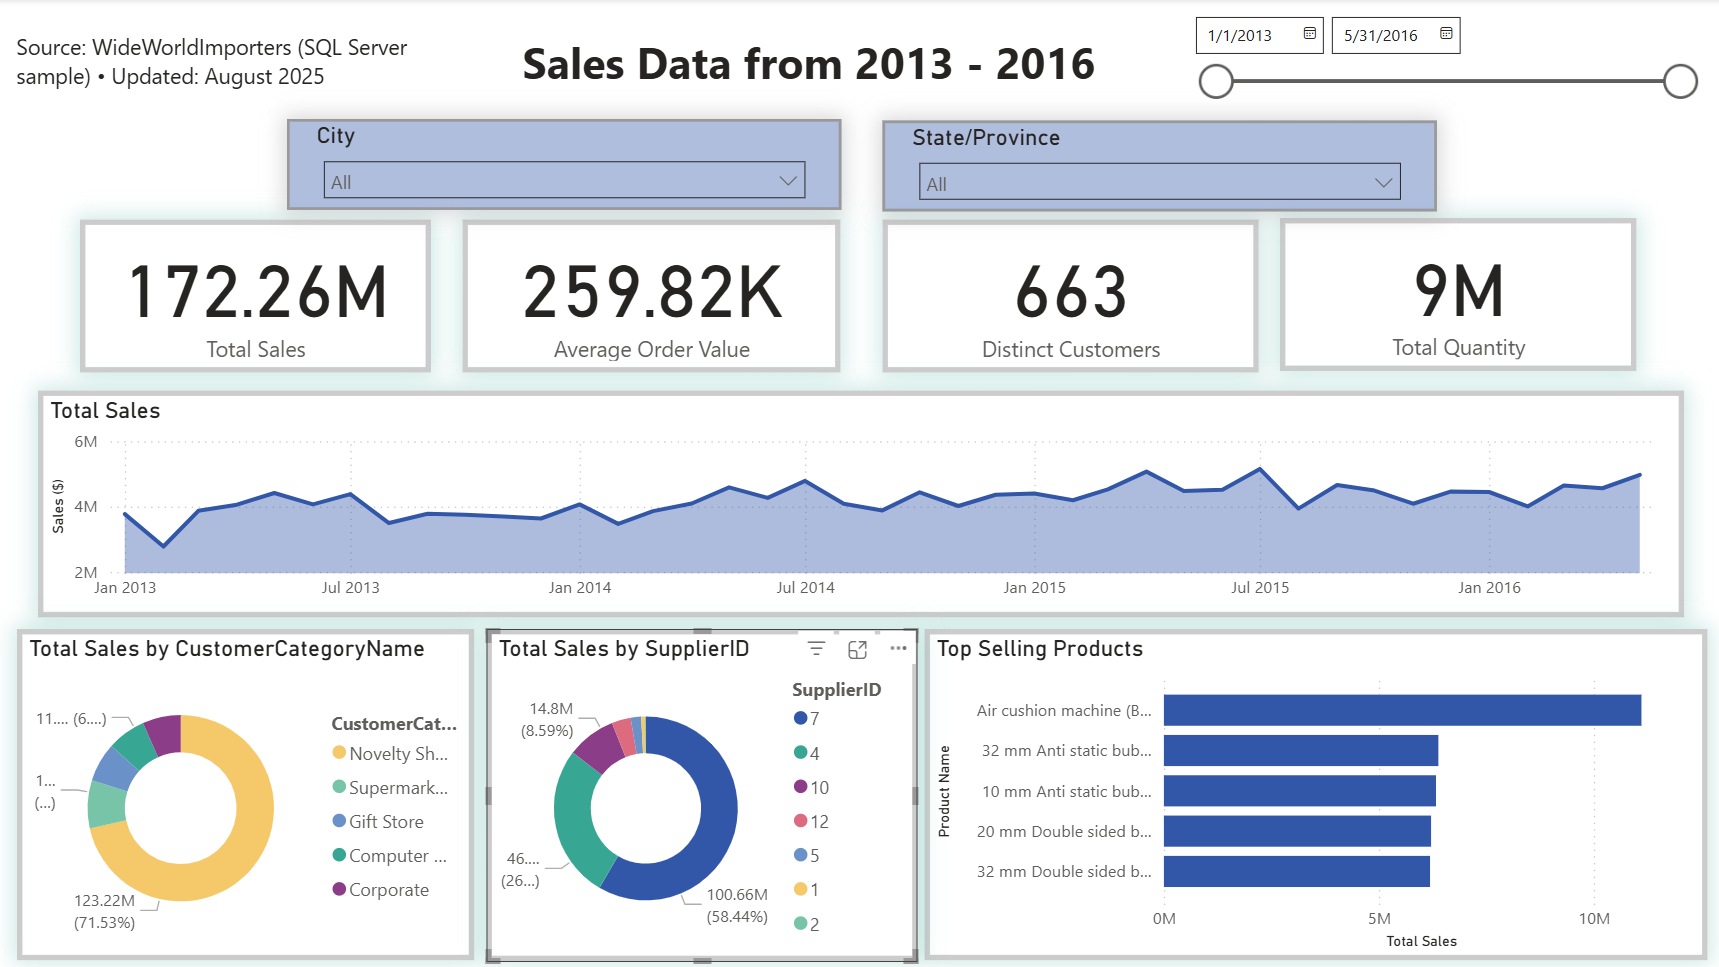
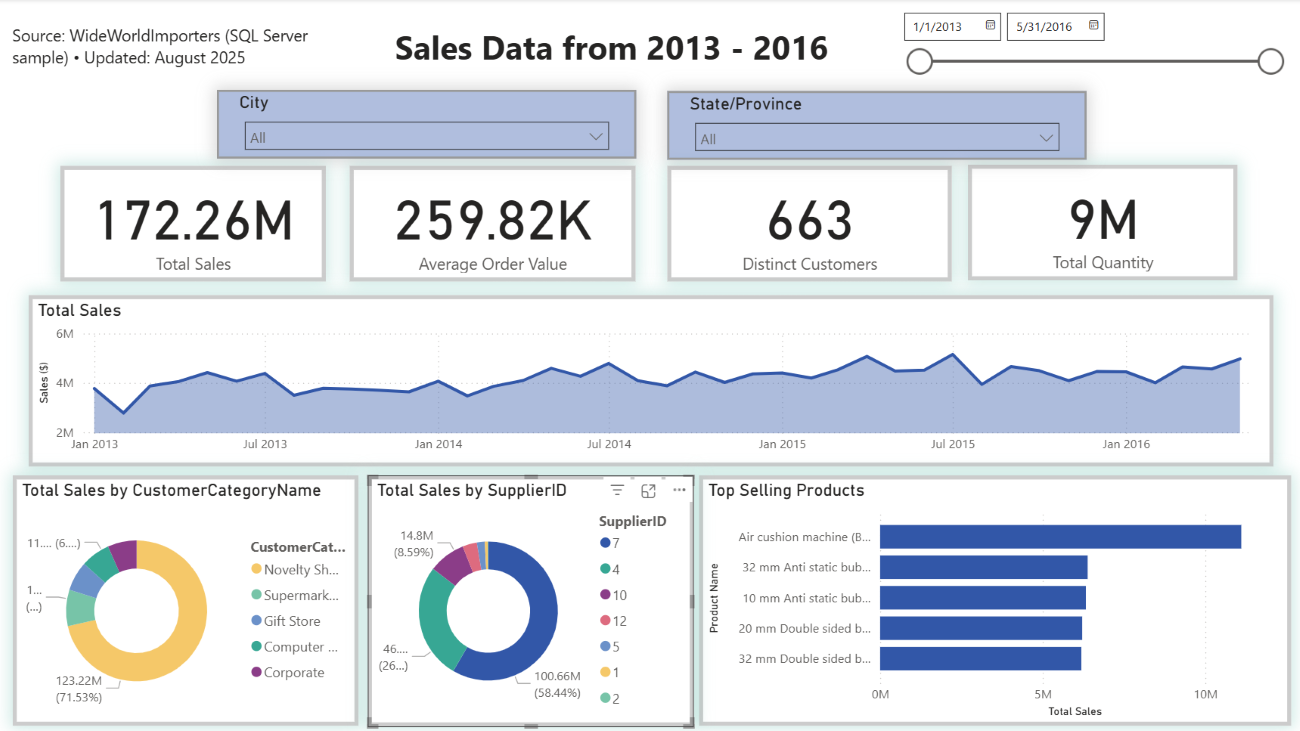
Added: narrative text to vis-reports page; Changed: resized dashboard images; pushed updated .gitignore

Changed region(s): [[0.2769, 0.9932, 0.5231, 1.0], [0.7692, 0.0301, 0.8308, 0.0602], [0.7077, 0.0301, 0.7385, 0.0602]]

diff --git a/tracks/vis-reports.html b/tracks/vis-reports.html
@@ -19,14 +19,38 @@
   <main class="container">
     
     <section class="intro">
-      <h2>Interactive Dashboard</h2>
-      <p>This report demonstrates a basic-to-iterative build: model design, DAX measures, and report layouts.</p>
+      <h2>Project Overview</h2>
+      <p>
+        My first goal was to showcase a live Power BI dashboard embedded directly in the portfolio. After multiple attempts,
+        I found that authentication requirements created a barrier for anyone without access to my Microsoft account.
+        To keep the portfolio universally accessible, I chose to provide high-resolution screenshots and downloadable
+        <code>.pbix</code> files so viewers can open, explore, and interact locally without account or system constraints.
+      </p>
+      <p>
+        Looking ahead, I plan to publish interactive dashboards with Tableau Public as a more open option for sharing live,
+        browser-based reports. This will let visitors engage with filters and comparisons online while I continue to document
+        design choices, data modeling decisions, and tradeoffs between convenience, control, and reproducibility.
+      </p>
+      <p>
+        As I iterate, I’m prioritizing explanations of “why” alongside “what”: why a donut replaced the map, why a fixed 90-day
+        window stabilizes comparisons, and why downloadable files improve access. The portfolio aims to show decisions, not just
+        outputs, so that a reviewer can follow the modeling choices, troubleshooting steps, and the rationale for publishing
+        formats that fit real-world constraints.
+      </p>
     </section>
+
 
     <!-- Project 1: Sales Trends (static) -->
     <section class="project">
       <h3>Sales Trends Dashboard</h3>
       <p class="meta">Baseline — clean visuals + core measures</p>
+
+      <p>
+        The Sales Trends dashboard began as a baseline for clean measures and visuals and became a study in practical publishing.
+        Dynamic map visuals were replaced with a donut for distribution and a Top-10 bar for focus, which simplified the layout
+        without losing the story. The current approach balances clarity and performance, and the included <code>.pbix</code> lets
+        anyone open the model to inspect relationships, DAX, and visual settings end-to-end.
+      </p>
 
       <a href="../assets/img/powerbi/sales-trends.png" target="_blank" rel="noopener">
         <img src="../assets/img/powerbi/sales-trends.png" 
@@ -54,6 +78,15 @@
     <section class="project">
       <h3>WideWorldImporters — Continued</h3>
       <p class="meta">Dimensional model • segments • comparisons</p>
+
+      <p>
+       The “Inventory” dashboard connects sales activity with stock levels to show how categories contribute differently over time. 
+       I calculated overall sales and growth measures in DAX, then used a mix of clustered and stacked charts to highlight which 
+       items and customers drive the most change. A donut chart provides a snapshot of contribution by category, while line and 
+       bar charts track performance month to month.  The visuals are designed to communicate both scale and comparison, combining 
+       distribution charts with time-based trends. The portfolio includes a screenshot for quick reference, and the 
+       <code>.pbix</code> lets reviewers interact with the report in Power BI.
+      </p>
 
       <!-- Screenshot (update the filename if needed) -->
       <a href="../assets/img/powerbi/wwi-advanced.png" target="_blank" rel="noopener">
